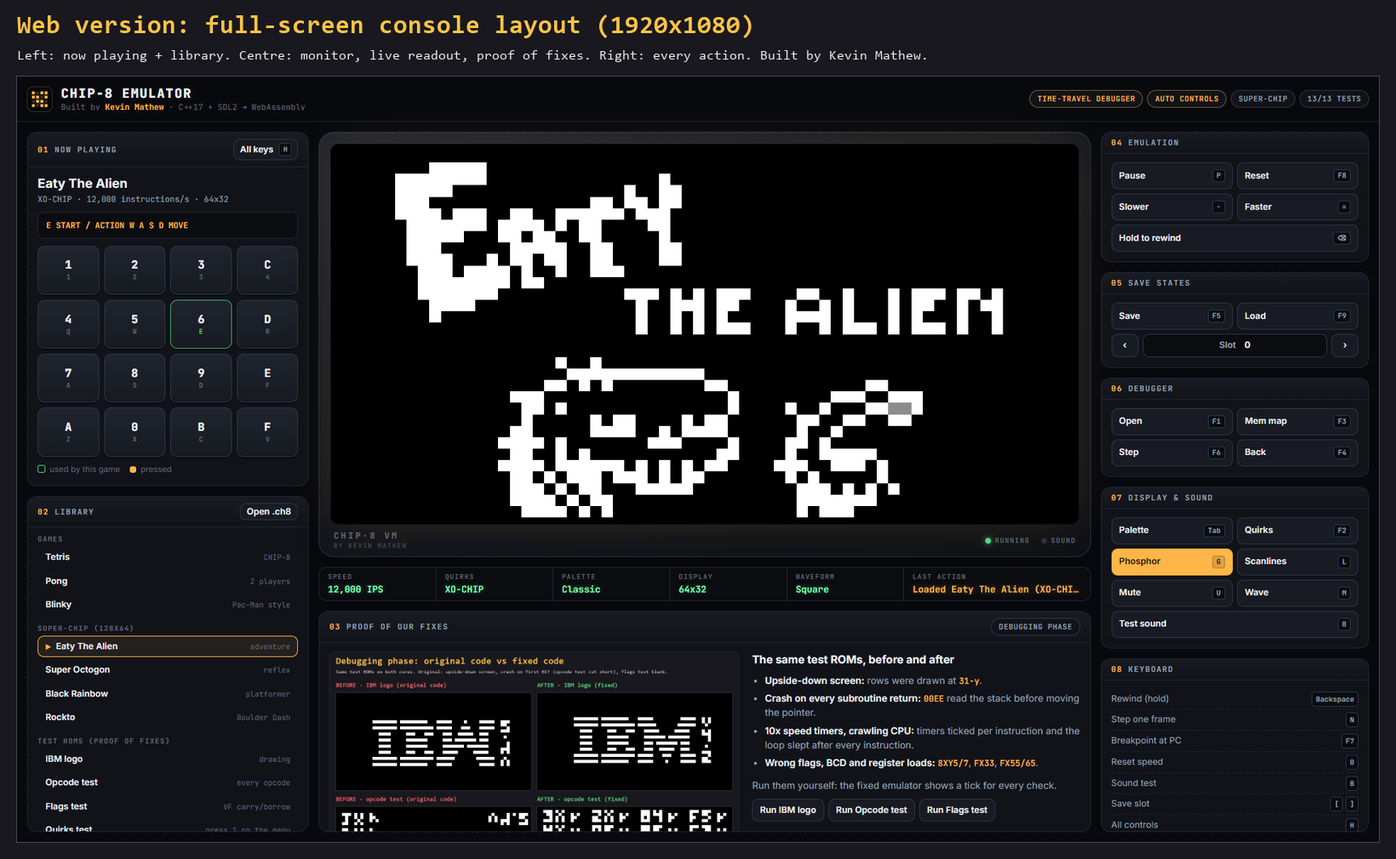
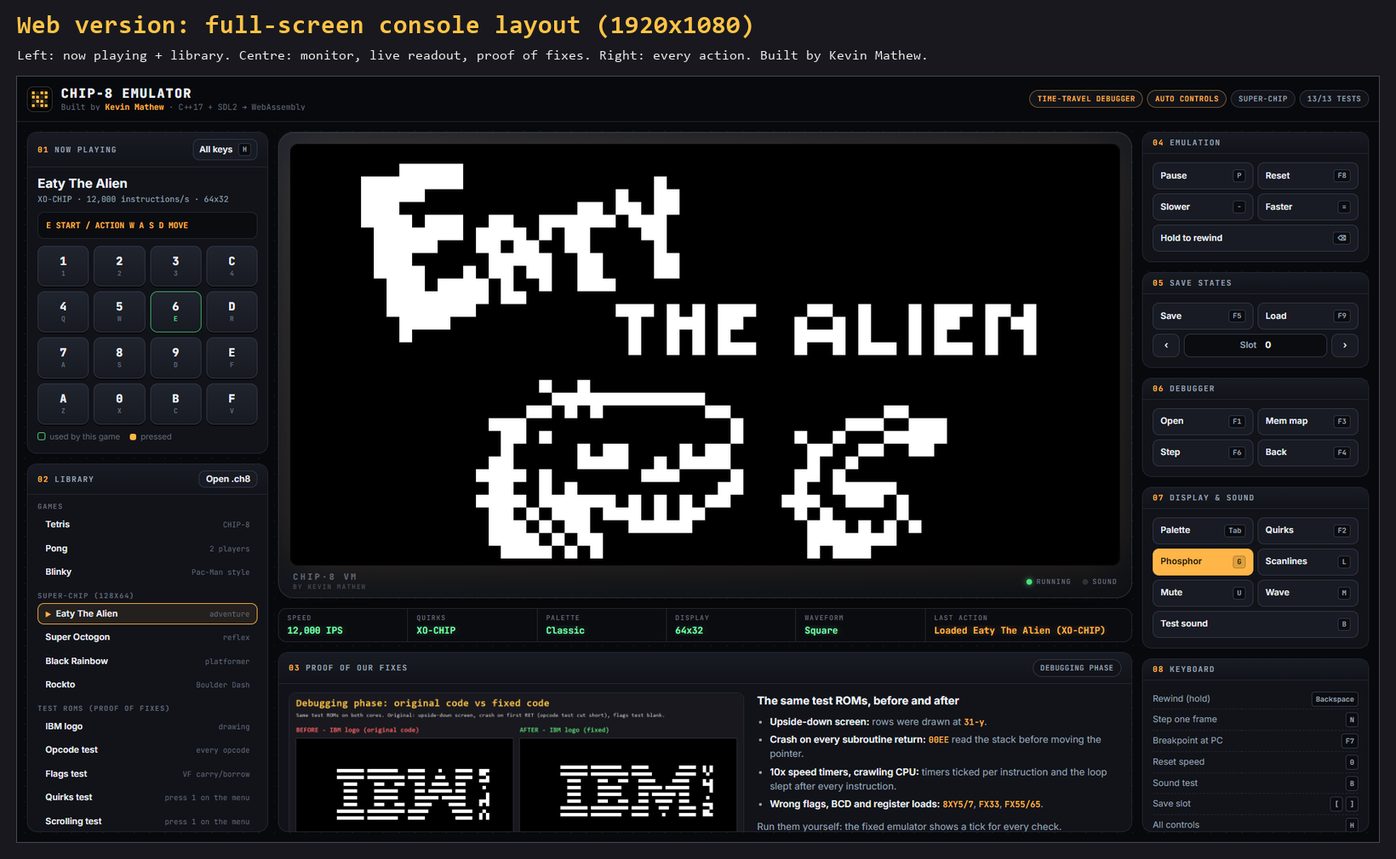
Let the web game screen fill the full width of its monitor
The canvas was capped by height to leave room for the proof panel, which
left black bars at the sides and made debugger text small. The screen now
takes the height first and the proof panel scrolls inside the space left.

Changed region(s): [[0.0311, 0.1535, 0.9329, 0.9822], [0.8707, 0.1842, 0.9329, 0.2455], [0.8707, 0.3376, 0.9018, 0.4297]]

diff --git a/docs/index.html b/docs/index.html
@@ -1,1 +1,1 @@
-<!doctypehtml><html lang=en><head><meta charset=utf-8><meta content="width=device-width,initial-scale=1"name=viewport><meta content="Kevin Mathew"name=author><meta content="CHIP-8 Emulator by Kevin Mathew, KM-CHIP8-9532C2F87939"name=generator><title>CHIP-8 Emulator by Kevin Mathew</title><link href=https://fonts.googleapis.com rel=preconnect><link href=https://fonts.gstatic.com rel=preconnect crossorigin><link href="https://fonts.googleapis.com/css2?family=Inter:wght@400;500;600;700&family=JetBrains+Mono:wght@400;600;700;800&display=swap"rel=stylesheet><style>:root{--bg:#08090d;--panel:#111319;--panel2:#181b23;--inset:#0b0c10;--line:#232733;--line2:#313746;--fg:#eceff5;--muted:#9aa3b4;--faint:#646c7d;--accent:#ffb547;--accent-ink:#1d1404;--green:#4ade80;--lcd:#7dffb0;--radius:14px;--mono:"JetBrains Mono",ui-monospace,Consolas,monospace;--header:64px;--gap:14px}*{box-sizing:border-box}body,html{margin:0;background:var(--bg);color:var(--fg)}body{font:14.5px/1.5 Inter,system-ui,sans-serif;-webkit-font-smoothing:antialiased;background-image:radial-gradient(rgba(255,255,255,.045) 1px,transparent 1px);background-size:22px 22px}header{height:var(--header);border-bottom:1px solid var(--line);background:rgba(8,9,13,.9);display:flex;align-items:center;justify-content:space-between;gap:16px;padding:0 var(--gap)}.brand{display:flex;align-items:center;gap:12px;min-width:0}.logo{width:36px;height:36px;flex:none;border-radius:9px;background:#000;border:1px solid var(--line2);display:grid;grid-template-columns:repeat(4,1fr);gap:2px;padding:6px}.logo i{background:var(--accent);border-radius:1px;box-shadow:0 0 6px rgba(255,181,71,.6)}.logo i.off{background:#20242d;box-shadow:none}h1{margin:0;font:800 18px/1 var(--mono);letter-spacing:1.5px;white-space:nowrap}.tag{margin:4px 0 0;color:var(--faint);font:500 11.5px/1 var(--mono);white-space:nowrap;overflow:hidden;text-overflow:ellipsis}.badges{display:flex;gap:6px;flex-wrap:nowrap;overflow:hidden}.badge{font:600 10.5px/1 var(--mono);letter-spacing:.6px;color:var(--muted);border:1px solid var(--line2);border-radius:999px;padding:6px 10px;background:var(--panel);white-space:nowrap}.badge.hot{color:var(--accent);border-color:rgba(255,181,71,.45)}.tag .author{color:var(--accent);font-weight:700}.maker small{display:block;margin-top:4px;font:600 9px/1 var(--mono);letter-spacing:1.5px;color:#474d5a}.console{display:grid;gap:var(--gap);padding:var(--gap);grid-template-columns:clamp(230px,20vw,340px) minmax(0,1fr) clamp(220px,19vw,320px);height:calc(100vh - var(--header));min-height:420px}.col{display:flex;flex-direction:column;gap:var(--gap);min-height:0;min-width:0;overflow-y:auto;overflow-x:hidden;scrollbar-width:thin;scrollbar-color:var(--line2) transparent}.col::-webkit-scrollbar{width:6px}.col::-webkit-scrollbar-thumb{background:var(--line2);border-radius:3px}.module.grow{flex:1 1 0;min-height:0;display:flex;flex-direction:column}.grow>.mod-b{flex:1 1 0;min-height:0;overflow:auto}.module{background:var(--panel);border:1px solid var(--line);border-radius:var(--radius);overflow:hidden;flex:none}.mod-h{display:flex;align-items:center;justify-content:space-between;gap:8px;padding:9px 14px;background:linear-gradient(180deg,var(--panel2),var(--panel));border-bottom:1px solid var(--line);flex:none}.mod-h h2{margin:0;font:700 11px/1 var(--mono);letter-spacing:1.4px;text-transform:uppercase;color:var(--muted)}.mod-h h2 span{color:var(--accent);margin-right:8px}.mod-b{padding:12px 14px 14px}.mod-b::-webkit-scrollbar{width:8px}.mod-b::-webkit-scrollbar-thumb{background:var(--line2);border-radius:4px}.monitor{flex:none;background:linear-gradient(160deg,#22252e,#13151b 55%,#0e1015);border:1px solid #2c313d;border-radius:22px;padding:16px 16px 10px;box-shadow:0 30px 80px -40px rgba(0,0,0,.9),inset 0 1px 0 rgba(255,255,255,.06)}.screen{position:relative;border-radius:12px;padding:10px;background:#000;box-shadow:inset 0 0 0 2px #050507,inset 0 0 30px rgba(0,0,0,.9),0 0 60px -12px rgba(255,181,71,.18)}canvas{display:block;margin:0 auto;width:min(100%,max(360px,calc((100vh - var(--header) - 430px) * 2)))!important;height:auto!important;aspect-ratio:2/1;image-rendering:pixelated;outline:0;border-radius:6px;background:#000}.plate{display:flex;align-items:center;justify-content:space-between;gap:12px;padding:10px 4px 0}.maker{font:800 12px/1 var(--mono);letter-spacing:3px;color:#5b6272}.leds{display:flex;align-items:center;gap:16px;font:600 10px/1 var(--mono);letter-spacing:1px;color:var(--faint)}.led{display:inline-block;width:8px;height:8px;border-radius:50%;margin-right:6px;vertical-align:-1px;background:#2a2e38}.led.power{background:var(--green);box-shadow:0 0 8px var(--green)}.led.power.paused{background:var(--accent);box-shadow:0 0 8px var(--accent)}.led.beep.on{background:var(--accent);box-shadow:0 0 10px var(--accent)}.lcd{flex:none;display:grid;grid-template-columns:repeat(5,minmax(0,1fr)) minmax(0,1.6fr);gap:1px;background:var(--line);border:1px solid var(--line);border-radius:12px;overflow:hidden}.lcd div{background:var(--inset);padding:8px 12px;min-width:0}.lcd small{display:block;font:600 9.5px/1 var(--mono);letter-spacing:1.2px;color:var(--faint);text-transform:uppercase}.lcd b{display:block;margin-top:5px;font:700 13px/1.2 var(--mono);color:var(--lcd);white-space:nowrap;overflow:hidden;text-overflow:ellipsis;text-shadow:0 0 8px rgba(125,255,176,.35)}.lcd .msg b{color:var(--accent);text-shadow:0 0 8px rgba(255,181,71,.35)}.file,button{font:600 12.5px/1 Inter,system-ui,sans-serif;color:var(--fg);background:var(--panel2);border:1px solid var(--line2);border-radius:9px;padding:9px 10px;cursor:pointer;display:inline-flex;align-items:center;justify-content:space-between;gap:8px;transition:border-color .12s,background .12s,transform .05s;user-select:none}.file:hover,button:hover{border-color:var(--accent)}button:active{transform:translateY(1px)}button.on{background:var(--accent);color:var(--accent-ink);border-color:var(--accent)}button:disabled{cursor:default;transform:none}kbd{font:700 10px/1 var(--mono);color:var(--muted);background:var(--inset);border:1px solid var(--line2);border-radius:4px;padding:3px 5px}button.on kbd{color:var(--accent-ink);background:rgba(0,0,0,.12);border-color:rgba(0,0,0,.2)}.file input{display:none}.grid2{display:grid;grid-template-columns:1fr 1fr;gap:6px}.grid2 .wide{grid-column:1/-1}.slot{display:grid;grid-template-columns:38px 1fr 38px;gap:6px;margin-top:6px}.slot button{justify-content:center}.slot .val{background:var(--inset);color:var(--muted)}.slot .val b{color:var(--fg);margin-left:4px}.now-title{font:700 18px/1.2 Inter,sans-serif;margin:0}.now-meta{color:var(--muted);font:500 11.5px/1.4 var(--mono);margin-top:3px}.controls{margin-top:10px;padding:9px 11px;border-radius:9px;background:var(--inset);border:1px solid var(--line);font:700 11.5px/1.55 var(--mono);color:var(--accent)}.keypad{display:grid;grid-template-columns:repeat(4,1fr);gap:7px;margin-top:10px;touch-action:none}.key{aspect-ratio:1.25;border-radius:10px;background:linear-gradient(180deg,#20242e,#171a21);border:1px solid var(--line2);box-shadow:0 2px 0 #07080b;display:flex;flex-direction:column;align-items:center;justify-content:center;cursor:pointer;user-select:none;transition:background .06s,border-color .12s,transform .05s}.key .hex{font:800 16px/1 var(--mono)}.key .kb{font:700 9.5px/1 var(--mono);color:var(--faint);margin-top:4px}.key.used{border-color:rgba(74,222,128,.8)}.key.used .kb{color:var(--green)}.key.down{background:var(--accent);border-color:var(--accent);color:var(--accent-ink);transform:translateY(2px);box-shadow:none}.key.down .kb{color:var(--accent-ink)}.legend{display:flex;gap:14px;margin-top:9px;font-size:11.5px;color:var(--faint)}.legend span::before{content:"";display:inline-block;width:9px;height:9px;border-radius:3px;margin-right:6px;vertical-align:-1px}.legend .l-used::before{border:1px solid var(--green)}.legend .l-down::before{background:var(--accent)}.lib-section{margin-bottom:10px}.lib-section:last-child{margin-bottom:0}.lib-section h4{margin:0 0 5px;font:700 10px/1 var(--mono);letter-spacing:1.2px;text-transform:uppercase;color:var(--faint)}.rom{width:100%;text-align:left;padding:8px 10px;margin-bottom:3px;background:0 0;border-color:transparent}.rom:hover{background:var(--panel2);border-color:var(--line2)}.rom.active{border-color:var(--accent);background:rgba(255,181,71,.08)}.rom.active span::before{content:"\25B6";color:var(--accent);font-size:9px;margin-right:7px}.rom small{color:var(--faint);font:500 10.5px/1 var(--mono)}.proof>.mod-b{display:grid;grid-template-columns:minmax(0,1.25fr) minmax(0,1fr);gap:18px;align-items:start}.proof img{width:100%;border-radius:10px;border:1px solid var(--line);display:block}.proof h3{margin:0 0 8px;font-size:15.5px}.proof ul{margin:0 0 12px;padding-left:18px;color:var(--muted);font-size:13.5px}.proof li{margin-bottom:5px}.proof li b{color:var(--fg);font-weight:600}.proof code{font:600 12px var(--mono);color:var(--accent)}.btns{display:flex;flex-wrap:wrap;gap:6px}.keys-table{width:100%;border-collapse:collapse;font-size:12.5px}.keys-table td{padding:5px 0;border-bottom:1px dashed var(--line);color:var(--muted)}.keys-table tr:last-child td{border-bottom:0}.keys-table td:last-child{text-align:right}@media (max-height:860px){:root{--header:56px;--gap:10px}.mod-h{padding:7px 12px}.mod-b{padding:9px 12px 10px}.file,button{padding:7px 9px}.monitor{padding:12px 12px 8px;border-radius:18px}.screen{padding:7px}.plate{padding-top:7px}.lcd div{padding:6px 10px}.key{aspect-ratio:1.45}.keys-table td{padding:3px 0}canvas{width:min(100%,max(340px,calc((100vh - var(--header) - 390px) * 2)))!important}}@media (max-height:720px){:root{--header:48px;--gap:8px}h1{font-size:16px}.tag{font-size:10.5px;margin-top:3px}.logo{width:30px;height:30px;padding:5px}.mod-h{padding:5px 10px}.mod-h h2{font-size:10px}.mod-b{padding:7px 10px 8px}.file,button{padding:6px 8px;font-size:12px}.monitor{padding:9px 9px 6px;border-radius:14px}.plate{padding-top:5px}.maker small{display:none}.lcd div{padding:5px 9px}.lcd b{font-size:12px;margin-top:3px}.now-title{font-size:15px}.controls{margin-top:6px;padding:6px 9px;font-size:11px}.keypad{gap:5px;margin-top:7px}.key{aspect-ratio:1.9;border-radius:7px}.key .hex{font-size:13px}.key .kb{margin-top:2px}.legend{display:none}.slot{margin-top:5px}.rom{padding:6px 9px}.proof h3{font-size:14px}.proof ul{font-size:12.5px}canvas{width:min(100%,max(320px,calc((100vh - var(--header) - 330px) * 2)))!important}}@media (max-width:1360px){.left .mod-h button kbd,.right button kbd{display:none}.right button{justify-content:center}.proof>.mod-b{grid-template-columns:minmax(0,1fr) minmax(0,1fr);gap:14px}}@media (max-width:1000px){.console{height:auto;min-height:0;grid-template-columns:1fr 1fr}.center{grid-column:1/-1;order:-1}.module.grow{flex:none}.grow>.mod-b{flex:none;overflow:visible}canvas{width:100%!important}}@media (max-width:1000px){.col{overflow:visible}.badges .badge:nth-child(n+3){display:none}}@media (max-width:760px){.console{grid-template-columns:1fr}.lcd{grid-template-columns:repeat(2,1fr)}.proof>.mod-b{grid-template-columns:1fr}.badges{display:none}}</style></head><body><header><div class=brand><div class=logo aria-hidden=true><i></i><i class=off></i><i></i><i></i><i></i><i></i><i class=off></i><i></i><i class=off></i><i></i><i></i><i class=off></i><i></i><i class=off></i><i></i><i></i></div><div><h1>CHIP-8 EMULATOR</h1><p class=tag>Built by <b class=author>Kevin Mathew</b> · C++17 + SDL2 → WebAssembly</p></div></div><div class=badges><span class="badge hot">TIME-TRAVEL DEBUGGER</span><span class="badge hot">AUTO CONTROLS</span> <span class=badge>SUPER-CHIP</span><span class=badge>13/13 TESTS</span></div></header><main class=console><div class="col left"><section class=module><div class=mod-h><h2><span>01</span>Now playing</h2><button data-key=104 style="padding:5px 8px">All keys <kbd>H</kbd></button></div><div class=mod-b><p class=now-title id=now-title>-</p><div class=now-meta id=now-meta>Loading...</div><div class=controls id=now-controls>-</div><div class=keypad id=keypad></div><div class=legend><span class=l-used>used by this game</span><span class=l-down>pressed</span></div></div></section><section class="module grow"><div class=mod-h><h2><span>02</span>Library</h2><label class=file style="padding:5px 9px">Open .ch8<input accept=.ch8,.c8,.sc8,.bin id=upload type=file></label></div><div class=mod-b id=library></div></section></div><div class="col center"><div class=monitor><div class=screen><canvas id=canvas oncontextmenu=event.preventDefault() tabindex=0></canvas></div><div class=plate><span class=maker>CHIP·8 VM<small>BY KEVIN MATHEW</small></span> <span class=leds><span><span class="led power"id=st-dot></span><span id=st-state>Loading</span></span> <span title="Lights up while the game plays a sound"><span class="led beep"id=st-beep></span><span id=st-sound>SOUND</span></span></span></div></div><div class=lcd aria-live=polite><div><small>Speed</small><b><span id=st-ips>-</span> IPS</b></div><div><small>Quirks</small><b id=st-quirks>-</b></div><div><small>Palette</small><b id=st-palette>-</b></div><div><small>Display</small><b id=st-res>-</b></div><div><small>Waveform</small><b id=st-wave>-</b></div><div class=msg><small>Last action</small><b id=st-msg>Click the screen to play</b></div></div><section class="module grow proof"><div class=mod-h><h2><span>03</span>Proof of our fixes</h2><span class=badge>DEBUGGING PHASE</span></div><div class=mod-b><img alt="Test ROMs on the original code (upside-down IBM logo, crashed opcode test, blank flags test) next to the fixed code, where every check passes"loading=lazy src=assets/bugfix.png><div><h3>The same test ROMs, before and after</h3><ul><li><b>Upside-down screen:</b> rows were drawn at <code>31-y</code>.</li><li><b>Crash on every subroutine return:</b> <code>00EE</code> read the stack before moving the pointer.</li><li><b>10x speed timers, crawling CPU:</b> timers ticked per instruction and the loop slept after every instruction.</li><li><b>Wrong flags, BCD and register loads:</b> <code>8XY5/7</code>, <code>FX33</code>, <code>FX55/65</code>.</li></ul><p style="color:var(--muted);margin:0 0 8px;font-size:13.5px">Run them yourself: the fixed emulator shows a tick for every check.</p><div class=btns id=proof-buttons></div><p style="color:var(--faint);margin:14px 0 0;font-size:12px">Built by Kevin Mathew for TatHack '26, PS1 · build KM-CHIP8-9532C2F87939 · Test ROMs by Timendus (GPL-3.0) · SUPER-CHIP games from the chip8Archive (CC0)</p></div></div></section></div><div class="col right"><section class=module><div class=mod-h><h2><span>04</span>Emulation</h2></div><div class="mod-b grid2"><button data-key=112 id=b-pause>Pause <kbd>P</kbd></button> <button data-key=1073741889>Reset <kbd>F8</kbd></button> <button data-key=45>Slower <kbd>-</kbd></button> <button data-key=61>Faster <kbd>=</kbd></button> <button id=b-rewind class=wide title="Hold to run time backwards">Hold to rewind <kbd>⌫</kbd></button></div></section><section class=module><div class=mod-h><h2><span>05</span>Save states</h2></div><div class=mod-b><div class=grid2><button data-key=1073741886>Save <kbd>F5</kbd></button> <button data-key=1073741890>Load <kbd>F9</kbd></button></div><div class=slot><button data-key=91 aria-label="Previous slot"title="Previous slot">‹</button> <button disabled class=val>Slot<b id=st-slot>0</b></button> <button data-key=93 aria-label="Next slot"title="Next slot">›</button></div></div></section><section class=module><div class=mod-h><h2><span>06</span>Debugger</h2></div><div class="mod-b grid2"><button data-key=1073741882 id=b-dbg>Open <kbd>F1</kbd></button> <button data-key=1073741884>Mem map <kbd>F3</kbd></button> <button data-key=1073741887>Step <kbd>F6</kbd></button> <button data-key=1073741885>Back <kbd>F4</kbd></button></div></section><section class=module><div class=mod-h><h2><span>07</span>Display & sound</h2></div><div class="mod-b grid2"><button data-key=9>Palette <kbd>Tab</kbd></button> <button data-key=1073741883>Quirks <kbd>F2</kbd></button> <button data-key=103 id=b-phosphor>Phosphor <kbd>G</kbd></button> <button data-key=108 id=b-scan>Scanlines <kbd>L</kbd></button> <button data-key=117 id=b-mute>Mute <kbd>U</kbd></button> <button data-key=109>Wave <kbd>M</kbd></button> <button data-key=98 id=b-beep class=wide>Test sound <kbd>B</kbd></button></div></section><section class="module grow"><div class=mod-h><h2><span>08</span>Keyboard</h2></div><div class=mod-b><table class=keys-table><tr><td>Rewind (hold)</td><td><kbd>Backspace</kbd></td></tr><tr><td>Step one frame</td><td><kbd>N</kbd></td></tr><tr><td>Breakpoint at PC</td><td><kbd>F7</kbd></td></tr><tr><td>Reset speed</td><td><kbd>0</kbd></td></tr><tr><td>Sound test</td><td><kbd>B</kbd></td></tr><tr><td>Save slot</td><td><kbd>[</kbd> <kbd>]</kbd></td></tr><tr><td>All controls</td><td><kbd>H</kbd></td></tr><tr><td>CHIP-8 keypad</td><td><kbd>1-4</kbd> <kbd>Q-R</kbd> <kbd>A-F</kbd> <kbd>Z-V</kbd></td></tr></table></div></section></div></main><script>const $=e=>document.getElementById(e),canvas=$("canvas"),KEYBOARD="X123QWEASDZC4RFV",LAYOUT=[1,2,3,12,4,5,6,13,7,8,9,14,10,0,11,15],LIBRARY=[["Games",[["roms/Tetris.ch8","Tetris","CHIP-8"],["roms/Pong.ch8","Pong","2 players"],["roms/Blinky.ch8","Blinky","Pac-Man style"]]],["SUPER-CHIP  (128x64)",[["roms/schip/eaty.ch8","Eaty The Alien","adventure"],["roms/schip/octogon.ch8","Super Octogon","reflex"],["roms/schip/blackrainbow.ch8","Black Rainbow","platformer"],["roms/schip/rockto.ch8","Rockto","Boulder Dash"]]],["Test ROMs  (proof of fixes)",[["test-roms/2-ibm-logo.ch8","IBM logo","drawing"],["test-roms/3-corax+.ch8","Opcode test","every opcode"],["test-roms/4-flags.ch8","Flags test","VF carry/borrow"],["test-roms/5-quirks.ch8","Quirks test","press 1 on the menu"],["test-roms/8-scrolling.ch8","Scrolling test","press 1 on the menu"]]]],params=new URLSearchParams(location.search);let currentRom=params.get("rom")||"roms/Tetris.ch8";var Module={canvas:canvas,arguments:[currentRom],print:e=>console.log(e),printErr:e=>console.warn(e),setStatus:e=>{e&&($("st-state").textContent=e.replace(/\(.*\)/,"").trim()||"Loading")},onRuntimeInitialized:()=>{canvas.focus(),setInterval(refresh,100)}};function call(e,...t){const s=t.map((e=>"string"==typeof e?"string":"number"));return Module.ccall(e,"web_get_info"===e?"string":"number",s,t)}const lib=$("library");function markActive(){document.querySelectorAll(".rom").forEach((e=>e.classList.toggle("active",e.dataset.rom===currentRom)))}function loadRom(e){call("web_load_rom",e)&&(currentRom=e,markActive()),canvas.focus()}LIBRARY.forEach((([e,t])=>{const s=document.createElement("div");s.className="lib-section",s.innerHTML=`<h4>${e}</h4>`,t.forEach((([e,t,n])=>{const o=document.createElement("button");o.className="rom",o.dataset.rom=e,o.innerHTML=`<span>${t}</span><small>${n}</small>`,o.addEventListener("click",(()=>loadRom(e))),s.appendChild(o)})),lib.appendChild(s)})),LIBRARY[2][1].slice(0,3).forEach((([e,t])=>{const s=document.createElement("button");s.textContent="Run "+t,s.addEventListener("click",(()=>loadRom(e))),$("proof-buttons").appendChild(s)})),markActive(),$("upload").addEventListener("change",(async e=>{const t=e.target.files[0];if(!t)return;const s=new Uint8Array(await t.arrayBuffer());try{Module.FS.mkdir("/uploads")}catch(e){}const n="/uploads/"+t.name.replace(/[^\w.\-]/g,"_");Module.FS.writeFile(n,s),loadRom(n),e.target.value=""}));const keyEls=[];LAYOUT.forEach((e=>{const t=document.createElement("div");t.className="key",t.innerHTML=`<span class="hex">${e.toString(16).toUpperCase()}</span><span class="kb">${KEYBOARD[e]}</span>`;const s=s=>n=>{n.preventDefault(),call("web_set_key",e,s?1:0),t.classList.toggle("down",s)};t.addEventListener("pointerdown",(e=>{t.setPointerCapture(e.pointerId),s(!0)(e)})),t.addEventListener("pointerup",s(!1)),t.addEventListener("pointercancel",s(!1)),$("keypad").appendChild(t),keyEls[e]=t})),document.querySelectorAll("button[data-key]").forEach((e=>e.addEventListener("click",(()=>{call("web_hotkey",Number(e.dataset.key)),canvas.focus()}))));const rewind=$("b-rewind"),setRewind=e=>t=>{t.preventDefault(),call("web_set_rewind",e?1:0),rewind.classList.toggle("on",e)};rewind.addEventListener("pointerdown",(e=>{rewind.setPointerCapture(e.pointerId),setRewind(!0)(e)})),rewind.addEventListener("pointerup",setRewind(!1)),rewind.addEventListener("pointercancel",setRewind(!1));const wakeAudio=()=>{const e=Module.SDL2&&Module.SDL2.audioContext;e&&"suspended"===e.state&&e.resume()};["pointerdown","keydown"].forEach((e=>window.addEventListener(e,wakeAudio,{capture:!0}))),canvas.addEventListener("click",(()=>canvas.focus()));let debuggerOpen=!1;function refresh(){let e;try{e=JSON.parse(call("web_get_info"))}catch(e){return}$("st-state").textContent=e.paused?"PAUSED":"RUNNING",$("st-dot").classList.toggle("paused",e.paused),$("st-ips").textContent=e.ips.toLocaleString(),$("st-quirks").textContent=e.quirks,$("st-palette").textContent=e.palette,$("st-res").textContent=e.hires?"128x64":"64x32",$("st-beep").classList.toggle("on",e.beeping&&!e.muted),$("st-sound").textContent=e.muted?"MUTED":"SOUND",e.message&&($("st-msg").textContent=e.message),$("st-slot").textContent=e.slot,$("st-wave").textContent=e.wave,$("now-title").textContent=e.title,$("now-meta").textContent=`${e.quirks} · ${e.ips.toLocaleString()} instructions/s · ${e.hires?"128x64":"64x32"}`,$("now-controls").textContent=e.controls||"Press keys: the emulator will show which ones this game uses.",$("b-pause").classList.toggle("on",e.paused),$("b-dbg").classList.toggle("on",e.debugger),debuggerOpen=e.debugger,$("b-mute").classList.toggle("on",e.muted),$("b-phosphor").classList.toggle("on",e.phosphor),$("b-scan").classList.toggle("on",e.scanlines);for(let t=0;t<16;t++)keyEls[t].classList.toggle("used",!!(e.polls&1<<t)),keyEls[t].classList.toggle("down",!!(e.pressed&1<<t))}window.addEventListener("wheel",(e=>{e.target!==canvas||debuggerOpen||e.stopPropagation()}),{capture:!0})</script><script async src=index.js></script></body></html>
+<!doctypehtml><html lang=en><head><meta charset=utf-8><meta content="width=device-width,initial-scale=1"name=viewport><meta content="Kevin Mathew"name=author><meta content="CHIP-8 Emulator by Kevin Mathew, KM-CHIP8-9532C2F87939"name=generator><title>CHIP-8 Emulator by Kevin Mathew</title><link href=https://fonts.googleapis.com rel=preconnect><link href=https://fonts.gstatic.com rel=preconnect crossorigin><link href="https://fonts.googleapis.com/css2?family=Inter:wght@400;500;600;700&family=JetBrains+Mono:wght@400;600;700;800&display=swap"rel=stylesheet><style>:root{--bg:#08090d;--panel:#111319;--panel2:#181b23;--inset:#0b0c10;--line:#232733;--line2:#313746;--fg:#eceff5;--muted:#9aa3b4;--faint:#646c7d;--accent:#ffb547;--accent-ink:#1d1404;--green:#4ade80;--lcd:#7dffb0;--radius:14px;--mono:"JetBrains Mono",ui-monospace,Consolas,monospace;--header:64px;--gap:14px}*{box-sizing:border-box}body,html{margin:0;background:var(--bg);color:var(--fg)}body{font:14.5px/1.5 Inter,system-ui,sans-serif;-webkit-font-smoothing:antialiased;background-image:radial-gradient(rgba(255,255,255,.045) 1px,transparent 1px);background-size:22px 22px}header{height:var(--header);border-bottom:1px solid var(--line);background:rgba(8,9,13,.9);display:flex;align-items:center;justify-content:space-between;gap:16px;padding:0 var(--gap)}.brand{display:flex;align-items:center;gap:12px;min-width:0}.logo{width:36px;height:36px;flex:none;border-radius:9px;background:#000;border:1px solid var(--line2);display:grid;grid-template-columns:repeat(4,1fr);gap:2px;padding:6px}.logo i{background:var(--accent);border-radius:1px;box-shadow:0 0 6px rgba(255,181,71,.6)}.logo i.off{background:#20242d;box-shadow:none}h1{margin:0;font:800 18px/1 var(--mono);letter-spacing:1.5px;white-space:nowrap}.tag{margin:4px 0 0;color:var(--faint);font:500 11.5px/1 var(--mono);white-space:nowrap;overflow:hidden;text-overflow:ellipsis}.badges{display:flex;gap:6px;flex-wrap:nowrap;overflow:hidden}.badge{font:600 10.5px/1 var(--mono);letter-spacing:.6px;color:var(--muted);border:1px solid var(--line2);border-radius:999px;padding:6px 10px;background:var(--panel);white-space:nowrap}.badge.hot{color:var(--accent);border-color:rgba(255,181,71,.45)}.tag .author{color:var(--accent);font-weight:700}.maker small{display:block;margin-top:4px;font:600 9px/1 var(--mono);letter-spacing:1.5px;color:#474d5a}.console{display:grid;gap:var(--gap);padding:var(--gap);grid-template-columns:clamp(230px,20vw,340px) minmax(0,1fr) clamp(220px,19vw,320px);height:calc(100vh - var(--header));min-height:420px}.col{display:flex;flex-direction:column;gap:var(--gap);min-height:0;min-width:0;overflow-y:auto;overflow-x:hidden;scrollbar-width:thin;scrollbar-color:var(--line2) transparent}.col::-webkit-scrollbar{width:6px}.col::-webkit-scrollbar-thumb{background:var(--line2);border-radius:3px}.module.grow{flex:1 1 0;min-height:0;display:flex;flex-direction:column}.grow>.mod-b{flex:1 1 0;min-height:0;overflow:auto}.module{background:var(--panel);border:1px solid var(--line);border-radius:var(--radius);overflow:hidden;flex:none}.mod-h{display:flex;align-items:center;justify-content:space-between;gap:8px;padding:9px 14px;background:linear-gradient(180deg,var(--panel2),var(--panel));border-bottom:1px solid var(--line);flex:none}.mod-h h2{margin:0;font:700 11px/1 var(--mono);letter-spacing:1.4px;text-transform:uppercase;color:var(--muted)}.mod-h h2 span{color:var(--accent);margin-right:8px}.mod-b{padding:12px 14px 14px}.mod-b::-webkit-scrollbar{width:8px}.mod-b::-webkit-scrollbar-thumb{background:var(--line2);border-radius:4px}.monitor{flex:none;background:linear-gradient(160deg,#22252e,#13151b 55%,#0e1015);border:1px solid #2c313d;border-radius:22px;padding:16px 16px 10px;box-shadow:0 30px 80px -40px rgba(0,0,0,.9),inset 0 1px 0 rgba(255,255,255,.06)}.screen{position:relative;border-radius:12px;padding:10px;background:#000;box-shadow:inset 0 0 0 2px #050507,inset 0 0 30px rgba(0,0,0,.9),0 0 60px -12px rgba(255,181,71,.18)}canvas{display:block;margin:0 auto;width:min(100%,max(360px,calc((100vh - var(--header) - 215px) * 2)))!important;height:auto!important;aspect-ratio:2/1;image-rendering:pixelated;outline:0;border-radius:6px;background:#000}.plate{display:flex;align-items:center;justify-content:space-between;gap:12px;padding:10px 4px 0}.maker{font:800 12px/1 var(--mono);letter-spacing:3px;color:#5b6272}.leds{display:flex;align-items:center;gap:16px;font:600 10px/1 var(--mono);letter-spacing:1px;color:var(--faint)}.led{display:inline-block;width:8px;height:8px;border-radius:50%;margin-right:6px;vertical-align:-1px;background:#2a2e38}.led.power{background:var(--green);box-shadow:0 0 8px var(--green)}.led.power.paused{background:var(--accent);box-shadow:0 0 8px var(--accent)}.led.beep.on{background:var(--accent);box-shadow:0 0 10px var(--accent)}.lcd{flex:none;display:grid;grid-template-columns:repeat(5,minmax(0,1fr)) minmax(0,1.6fr);gap:1px;background:var(--line);border:1px solid var(--line);border-radius:12px;overflow:hidden}.lcd div{background:var(--inset);padding:8px 12px;min-width:0}.lcd small{display:block;font:600 9.5px/1 var(--mono);letter-spacing:1.2px;color:var(--faint);text-transform:uppercase}.lcd b{display:block;margin-top:5px;font:700 13px/1.2 var(--mono);color:var(--lcd);white-space:nowrap;overflow:hidden;text-overflow:ellipsis;text-shadow:0 0 8px rgba(125,255,176,.35)}.lcd .msg b{color:var(--accent);text-shadow:0 0 8px rgba(255,181,71,.35)}.file,button{font:600 12.5px/1 Inter,system-ui,sans-serif;color:var(--fg);background:var(--panel2);border:1px solid var(--line2);border-radius:9px;padding:9px 10px;cursor:pointer;display:inline-flex;align-items:center;justify-content:space-between;gap:8px;transition:border-color .12s,background .12s,transform .05s;user-select:none}.file:hover,button:hover{border-color:var(--accent)}button:active{transform:translateY(1px)}button.on{background:var(--accent);color:var(--accent-ink);border-color:var(--accent)}button:disabled{cursor:default;transform:none}kbd{font:700 10px/1 var(--mono);color:var(--muted);background:var(--inset);border:1px solid var(--line2);border-radius:4px;padding:3px 5px}button.on kbd{color:var(--accent-ink);background:rgba(0,0,0,.12);border-color:rgba(0,0,0,.2)}.file input{display:none}.grid2{display:grid;grid-template-columns:1fr 1fr;gap:6px}.grid2 .wide{grid-column:1/-1}.slot{display:grid;grid-template-columns:38px 1fr 38px;gap:6px;margin-top:6px}.slot button{justify-content:center}.slot .val{background:var(--inset);color:var(--muted)}.slot .val b{color:var(--fg);margin-left:4px}.now-title{font:700 18px/1.2 Inter,sans-serif;margin:0}.now-meta{color:var(--muted);font:500 11.5px/1.4 var(--mono);margin-top:3px}.controls{margin-top:10px;padding:9px 11px;border-radius:9px;background:var(--inset);border:1px solid var(--line);font:700 11.5px/1.55 var(--mono);color:var(--accent)}.keypad{display:grid;grid-template-columns:repeat(4,1fr);gap:7px;margin-top:10px;touch-action:none}.key{aspect-ratio:1.25;border-radius:10px;background:linear-gradient(180deg,#20242e,#171a21);border:1px solid var(--line2);box-shadow:0 2px 0 #07080b;display:flex;flex-direction:column;align-items:center;justify-content:center;cursor:pointer;user-select:none;transition:background .06s,border-color .12s,transform .05s}.key .hex{font:800 16px/1 var(--mono)}.key .kb{font:700 9.5px/1 var(--mono);color:var(--faint);margin-top:4px}.key.used{border-color:rgba(74,222,128,.8)}.key.used .kb{color:var(--green)}.key.down{background:var(--accent);border-color:var(--accent);color:var(--accent-ink);transform:translateY(2px);box-shadow:none}.key.down .kb{color:var(--accent-ink)}.legend{display:flex;gap:14px;margin-top:9px;font-size:11.5px;color:var(--faint)}.legend span::before{content:"";display:inline-block;width:9px;height:9px;border-radius:3px;margin-right:6px;vertical-align:-1px}.legend .l-used::before{border:1px solid var(--green)}.legend .l-down::before{background:var(--accent)}.lib-section{margin-bottom:10px}.lib-section:last-child{margin-bottom:0}.lib-section h4{margin:0 0 5px;font:700 10px/1 var(--mono);letter-spacing:1.2px;text-transform:uppercase;color:var(--faint)}.rom{width:100%;text-align:left;padding:8px 10px;margin-bottom:3px;background:0 0;border-color:transparent}.rom:hover{background:var(--panel2);border-color:var(--line2)}.rom.active{border-color:var(--accent);background:rgba(255,181,71,.08)}.rom.active span::before{content:"\25B6";color:var(--accent);font-size:9px;margin-right:7px}.rom small{color:var(--faint);font:500 10.5px/1 var(--mono)}.module.grow.proof{min-height:110px}.proof>.mod-b{display:grid;grid-template-columns:minmax(0,1.25fr) minmax(0,1fr);gap:18px;align-items:start}.proof img{width:100%;border-radius:10px;border:1px solid var(--line);display:block}.proof h3{margin:0 0 8px;font-size:15.5px}.proof ul{margin:0 0 12px;padding-left:18px;color:var(--muted);font-size:13.5px}.proof li{margin-bottom:5px}.proof li b{color:var(--fg);font-weight:600}.proof code{font:600 12px var(--mono);color:var(--accent)}.btns{display:flex;flex-wrap:wrap;gap:6px}.keys-table{width:100%;border-collapse:collapse;font-size:12.5px}.keys-table td{padding:5px 0;border-bottom:1px dashed var(--line);color:var(--muted)}.keys-table tr:last-child td{border-bottom:0}.keys-table td:last-child{text-align:right}@media (max-height:860px){:root{--header:56px;--gap:10px}.mod-h{padding:7px 12px}.mod-b{padding:9px 12px 10px}.file,button{padding:7px 9px}.monitor{padding:12px 12px 8px;border-radius:18px}.screen{padding:7px}.plate{padding-top:7px}.lcd div{padding:6px 10px}.key{aspect-ratio:1.45}.keys-table td{padding:3px 0}canvas{width:min(100%,max(340px,calc((100vh - var(--header) - 185px) * 2)))!important}}@media (max-height:720px){:root{--header:48px;--gap:8px}h1{font-size:16px}.tag{font-size:10.5px;margin-top:3px}.logo{width:30px;height:30px;padding:5px}.mod-h{padding:5px 10px}.mod-h h2{font-size:10px}.mod-b{padding:7px 10px 8px}.file,button{padding:6px 8px;font-size:12px}.monitor{padding:9px 9px 6px;border-radius:14px}.plate{padding-top:5px}.maker small{display:none}.lcd div{padding:5px 9px}.lcd b{font-size:12px;margin-top:3px}.now-title{font-size:15px}.controls{margin-top:6px;padding:6px 9px;font-size:11px}.keypad{gap:5px;margin-top:7px}.key{aspect-ratio:1.9;border-radius:7px}.key .hex{font-size:13px}.key .kb{margin-top:2px}.legend{display:none}.slot{margin-top:5px}.rom{padding:6px 9px}.proof h3{font-size:14px}.proof ul{font-size:12.5px}canvas{width:min(100%,max(320px,calc((100vh - var(--header) - 150px) * 2)))!important}}@media (max-width:1360px){.left .mod-h button kbd,.right button kbd{display:none}.right button{justify-content:center}.proof>.mod-b{grid-template-columns:minmax(0,1fr) minmax(0,1fr);gap:14px}}@media (max-width:1000px){.console{height:auto;min-height:0;grid-template-columns:1fr 1fr}.center{grid-column:1/-1;order:-1}.module.grow{flex:none}.grow>.mod-b{flex:none;overflow:visible}canvas{width:100%!important}}@media (max-width:1000px){.col{overflow:visible}.badges .badge:nth-child(n+3){display:none}}@media (max-width:760px){.console{grid-template-columns:1fr}.lcd{grid-template-columns:repeat(2,1fr)}.proof>.mod-b{grid-template-columns:1fr}.badges{display:none}}</style></head><body><header><div class=brand><div class=logo aria-hidden=true><i></i><i class=off></i><i></i><i></i><i></i><i></i><i class=off></i><i></i><i class=off></i><i></i><i></i><i class=off></i><i></i><i class=off></i><i></i><i></i></div><div><h1>CHIP-8 EMULATOR</h1><p class=tag>Built by <b class=author>Kevin Mathew</b> · C++17 + SDL2 → WebAssembly</p></div></div><div class=badges><span class="badge hot">TIME-TRAVEL DEBUGGER</span><span class="badge hot">AUTO CONTROLS</span> <span class=badge>SUPER-CHIP</span><span class=badge>13/13 TESTS</span></div></header><main class=console><div class="col left"><section class=module><div class=mod-h><h2><span>01</span>Now playing</h2><button data-key=104 style="padding:5px 8px">All keys <kbd>H</kbd></button></div><div class=mod-b><p class=now-title id=now-title>-</p><div class=now-meta id=now-meta>Loading...</div><div class=controls id=now-controls>-</div><div class=keypad id=keypad></div><div class=legend><span class=l-used>used by this game</span><span class=l-down>pressed</span></div></div></section><section class="module grow"><div class=mod-h><h2><span>02</span>Library</h2><label class=file style="padding:5px 9px">Open .ch8<input accept=.ch8,.c8,.sc8,.bin id=upload type=file></label></div><div class=mod-b id=library></div></section></div><div class="col center"><div class=monitor><div class=screen><canvas id=canvas oncontextmenu=event.preventDefault() tabindex=0></canvas></div><div class=plate><span class=maker>CHIP·8 VM<small>BY KEVIN MATHEW</small></span> <span class=leds><span><span class="led power"id=st-dot></span><span id=st-state>Loading</span></span> <span title="Lights up while the game plays a sound"><span class="led beep"id=st-beep></span><span id=st-sound>SOUND</span></span></span></div></div><div class=lcd aria-live=polite><div><small>Speed</small><b><span id=st-ips>-</span> IPS</b></div><div><small>Quirks</small><b id=st-quirks>-</b></div><div><small>Palette</small><b id=st-palette>-</b></div><div><small>Display</small><b id=st-res>-</b></div><div><small>Waveform</small><b id=st-wave>-</b></div><div class=msg><small>Last action</small><b id=st-msg>Click the screen to play</b></div></div><section class="module grow proof"><div class=mod-h><h2><span>03</span>Proof of our fixes</h2><span class=badge>DEBUGGING PHASE</span></div><div class=mod-b><img alt="Test ROMs on the original code (upside-down IBM logo, crashed opcode test, blank flags test) next to the fixed code, where every check passes"loading=lazy src=assets/bugfix.png><div><h3>The same test ROMs, before and after</h3><ul><li><b>Upside-down screen:</b> rows were drawn at <code>31-y</code>.</li><li><b>Crash on every subroutine return:</b> <code>00EE</code> read the stack before moving the pointer.</li><li><b>10x speed timers, crawling CPU:</b> timers ticked per instruction and the loop slept after every instruction.</li><li><b>Wrong flags, BCD and register loads:</b> <code>8XY5/7</code>, <code>FX33</code>, <code>FX55/65</code>.</li></ul><p style="color:var(--muted);margin:0 0 8px;font-size:13.5px">Run them yourself: the fixed emulator shows a tick for every check.</p><div class=btns id=proof-buttons></div><p style="color:var(--faint);margin:14px 0 0;font-size:12px">Built by Kevin Mathew for TatHack '26, PS1 · build KM-CHIP8-9532C2F87939 · Test ROMs by Timendus (GPL-3.0) · SUPER-CHIP games from the chip8Archive (CC0)</p></div></div></section></div><div class="col right"><section class=module><div class=mod-h><h2><span>04</span>Emulation</h2></div><div class="mod-b grid2"><button data-key=112 id=b-pause>Pause <kbd>P</kbd></button> <button data-key=1073741889>Reset <kbd>F8</kbd></button> <button data-key=45>Slower <kbd>-</kbd></button> <button data-key=61>Faster <kbd>=</kbd></button> <button id=b-rewind class=wide title="Hold to run time backwards">Hold to rewind <kbd>⌫</kbd></button></div></section><section class=module><div class=mod-h><h2><span>05</span>Save states</h2></div><div class=mod-b><div class=grid2><button data-key=1073741886>Save <kbd>F5</kbd></button> <button data-key=1073741890>Load <kbd>F9</kbd></button></div><div class=slot><button data-key=91 aria-label="Previous slot"title="Previous slot">‹</button> <button disabled class=val>Slot<b id=st-slot>0</b></button> <button data-key=93 aria-label="Next slot"title="Next slot">›</button></div></div></section><section class=module><div class=mod-h><h2><span>06</span>Debugger</h2></div><div class="mod-b grid2"><button data-key=1073741882 id=b-dbg>Open <kbd>F1</kbd></button> <button data-key=1073741884>Mem map <kbd>F3</kbd></button> <button data-key=1073741887>Step <kbd>F6</kbd></button> <button data-key=1073741885>Back <kbd>F4</kbd></button></div></section><section class=module><div class=mod-h><h2><span>07</span>Display & sound</h2></div><div class="mod-b grid2"><button data-key=9>Palette <kbd>Tab</kbd></button> <button data-key=1073741883>Quirks <kbd>F2</kbd></button> <button data-key=103 id=b-phosphor>Phosphor <kbd>G</kbd></button> <button data-key=108 id=b-scan>Scanlines <kbd>L</kbd></button> <button data-key=117 id=b-mute>Mute <kbd>U</kbd></button> <button data-key=109>Wave <kbd>M</kbd></button> <button data-key=98 id=b-beep class=wide>Test sound <kbd>B</kbd></button></div></section><section class="module grow"><div class=mod-h><h2><span>08</span>Keyboard</h2></div><div class=mod-b><table class=keys-table><tr><td>Rewind (hold)</td><td><kbd>Backspace</kbd></td></tr><tr><td>Step one frame</td><td><kbd>N</kbd></td></tr><tr><td>Breakpoint at PC</td><td><kbd>F7</kbd></td></tr><tr><td>Reset speed</td><td><kbd>0</kbd></td></tr><tr><td>Sound test</td><td><kbd>B</kbd></td></tr><tr><td>Save slot</td><td><kbd>[</kbd> <kbd>]</kbd></td></tr><tr><td>All controls</td><td><kbd>H</kbd></td></tr><tr><td>CHIP-8 keypad</td><td><kbd>1-4</kbd> <kbd>Q-R</kbd> <kbd>A-F</kbd> <kbd>Z-V</kbd></td></tr></table></div></section></div></main><script>const $=e=>document.getElementById(e),canvas=$("canvas"),KEYBOARD="X123QWEASDZC4RFV",LAYOUT=[1,2,3,12,4,5,6,13,7,8,9,14,10,0,11,15],LIBRARY=[["Games",[["roms/Tetris.ch8","Tetris","CHIP-8"],["roms/Pong.ch8","Pong","2 players"],["roms/Blinky.ch8","Blinky","Pac-Man style"]]],["SUPER-CHIP  (128x64)",[["roms/schip/eaty.ch8","Eaty The Alien","adventure"],["roms/schip/octogon.ch8","Super Octogon","reflex"],["roms/schip/blackrainbow.ch8","Black Rainbow","platformer"],["roms/schip/rockto.ch8","Rockto","Boulder Dash"]]],["Test ROMs  (proof of fixes)",[["test-roms/2-ibm-logo.ch8","IBM logo","drawing"],["test-roms/3-corax+.ch8","Opcode test","every opcode"],["test-roms/4-flags.ch8","Flags test","VF carry/borrow"],["test-roms/5-quirks.ch8","Quirks test","press 1 on the menu"],["test-roms/8-scrolling.ch8","Scrolling test","press 1 on the menu"]]]],params=new URLSearchParams(location.search);let currentRom=params.get("rom")||"roms/Tetris.ch8";var Module={canvas:canvas,arguments:[currentRom],print:e=>console.log(e),printErr:e=>console.warn(e),setStatus:e=>{e&&($("st-state").textContent=e.replace(/\(.*\)/,"").trim()||"Loading")},onRuntimeInitialized:()=>{canvas.focus(),setInterval(refresh,100)}};function call(e,...t){const s=t.map((e=>"string"==typeof e?"string":"number"));return Module.ccall(e,"web_get_info"===e?"string":"number",s,t)}const lib=$("library");function markActive(){document.querySelectorAll(".rom").forEach((e=>e.classList.toggle("active",e.dataset.rom===currentRom)))}function loadRom(e){call("web_load_rom",e)&&(currentRom=e,markActive()),canvas.focus()}LIBRARY.forEach((([e,t])=>{const s=document.createElement("div");s.className="lib-section",s.innerHTML=`<h4>${e}</h4>`,t.forEach((([e,t,n])=>{const o=document.createElement("button");o.className="rom",o.dataset.rom=e,o.innerHTML=`<span>${t}</span><small>${n}</small>`,o.addEventListener("click",(()=>loadRom(e))),s.appendChild(o)})),lib.appendChild(s)})),LIBRARY[2][1].slice(0,3).forEach((([e,t])=>{const s=document.createElement("button");s.textContent="Run "+t,s.addEventListener("click",(()=>loadRom(e))),$("proof-buttons").appendChild(s)})),markActive(),$("upload").addEventListener("change",(async e=>{const t=e.target.files[0];if(!t)return;const s=new Uint8Array(await t.arrayBuffer());try{Module.FS.mkdir("/uploads")}catch(e){}const n="/uploads/"+t.name.replace(/[^\w.\-]/g,"_");Module.FS.writeFile(n,s),loadRom(n),e.target.value=""}));const keyEls=[];LAYOUT.forEach((e=>{const t=document.createElement("div");t.className="key",t.innerHTML=`<span class="hex">${e.toString(16).toUpperCase()}</span><span class="kb">${KEYBOARD[e]}</span>`;const s=s=>n=>{n.preventDefault(),call("web_set_key",e,s?1:0),t.classList.toggle("down",s)};t.addEventListener("pointerdown",(e=>{t.setPointerCapture(e.pointerId),s(!0)(e)})),t.addEventListener("pointerup",s(!1)),t.addEventListener("pointercancel",s(!1)),$("keypad").appendChild(t),keyEls[e]=t})),document.querySelectorAll("button[data-key]").forEach((e=>e.addEventListener("click",(()=>{call("web_hotkey",Number(e.dataset.key)),canvas.focus()}))));const rewind=$("b-rewind"),setRewind=e=>t=>{t.preventDefault(),call("web_set_rewind",e?1:0),rewind.classList.toggle("on",e)};rewind.addEventListener("pointerdown",(e=>{rewind.setPointerCapture(e.pointerId),setRewind(!0)(e)})),rewind.addEventListener("pointerup",setRewind(!1)),rewind.addEventListener("pointercancel",setRewind(!1));const wakeAudio=()=>{const e=Module.SDL2&&Module.SDL2.audioContext;e&&"suspended"===e.state&&e.resume()};["pointerdown","keydown"].forEach((e=>window.addEventListener(e,wakeAudio,{capture:!0}))),canvas.addEventListener("click",(()=>canvas.focus()));let debuggerOpen=!1;function refresh(){let e;try{e=JSON.parse(call("web_get_info"))}catch(e){return}$("st-state").textContent=e.paused?"PAUSED":"RUNNING",$("st-dot").classList.toggle("paused",e.paused),$("st-ips").textContent=e.ips.toLocaleString(),$("st-quirks").textContent=e.quirks,$("st-palette").textContent=e.palette,$("st-res").textContent=e.hires?"128x64":"64x32",$("st-beep").classList.toggle("on",e.beeping&&!e.muted),$("st-sound").textContent=e.muted?"MUTED":"SOUND",e.message&&($("st-msg").textContent=e.message),$("st-slot").textContent=e.slot,$("st-wave").textContent=e.wave,$("now-title").textContent=e.title,$("now-meta").textContent=`${e.quirks} · ${e.ips.toLocaleString()} instructions/s · ${e.hires?"128x64":"64x32"}`,$("now-controls").textContent=e.controls||"Press keys: the emulator will show which ones this game uses.",$("b-pause").classList.toggle("on",e.paused),$("b-dbg").classList.toggle("on",e.debugger),debuggerOpen=e.debugger,$("b-mute").classList.toggle("on",e.muted),$("b-phosphor").classList.toggle("on",e.phosphor),$("b-scan").classList.toggle("on",e.scanlines);for(let t=0;t<16;t++)keyEls[t].classList.toggle("used",!!(e.polls&1<<t)),keyEls[t].classList.toggle("down",!!(e.pressed&1<<t))}window.addEventListener("wheel",(e=>{e.target!==canvas||debuggerOpen||e.stopPropagation()}),{capture:!0})</script><script async src=index.js></script></body></html>

diff --git a/web/shell.html b/web/shell.html
@@ -66,7 +66,7 @@
   .screen { position: relative; border-radius: 12px; padding: 10px; background: #000;
     box-shadow: inset 0 0 0 2px #050507, inset 0 0 30px rgba(0,0,0,.9), 0 0 60px -12px rgba(255,181,71,.18); }
   /* The canvas is as large as possible while leaving room for the proof panel underneath */
-  canvas { display: block; margin: 0 auto; width: min(100%, max(360px, calc((100vh - var(--header) - 430px) * 2))) !important;
+  canvas { display: block; margin: 0 auto; width: min(100%, max(360px, calc((100vh - var(--header) - 215px) * 2))) !important;
     height: auto !important; aspect-ratio: 2 / 1; image-rendering: pixelated; outline: none; border-radius: 6px; background: #000; }
   .plate { display: flex; align-items: center; justify-content: space-between; gap: 12px; padding: 10px 4px 0; }
   .maker { font: 800 12px/1 var(--mono); letter-spacing: 3px; color: #5b6272; }
@@ -136,6 +136,7 @@
   .rom small { color: var(--faint); font: 500 10.5px/1 var(--mono); }
 
   /* ---------- Proof (fills the space under the monitor) ---------- */
+  .module.grow.proof { min-height: 110px; } /* the screen gets the height first; proof scrolls inside */
   .proof > .mod-b { display: grid; grid-template-columns: minmax(0, 1.25fr) minmax(0, 1fr); gap: 18px; align-items: start; }
   .proof img { width: 100%; border-radius: 10px; border: 1px solid var(--line); display: block; }
   .proof h3 { margin: 0 0 8px; font-size: 15.5px; }
@@ -163,7 +164,7 @@
     .lcd div { padding: 6px 10px; }
     .key { aspect-ratio: 1.45; }
     .keys-table td { padding: 3px 0; }
-    canvas { width: min(100%, max(340px, calc((100vh - var(--header) - 390px) * 2))) !important; }
+    canvas { width: min(100%, max(340px, calc((100vh - var(--header) - 185px) * 2))) !important; }
   }
 
   /* ---------- Very short windows (laptop with browser toolbars, display scaling) ---------- */
@@ -183,7 +184,7 @@
     .slot { margin-top: 5px; }
     .rom { padding: 6px 9px; }
     .proof h3 { font-size: 14px; } .proof ul { font-size: 12.5px; }
-    canvas { width: min(100%, max(320px, calc((100vh - var(--header) - 330px) * 2))) !important; }
+    canvas { width: min(100%, max(320px, calc((100vh - var(--header) - 150px) * 2))) !important; }
   }
 
   /* ---------- Narrower desktops: slimmer side columns, key hints hidden inside side buttons ---------- */
